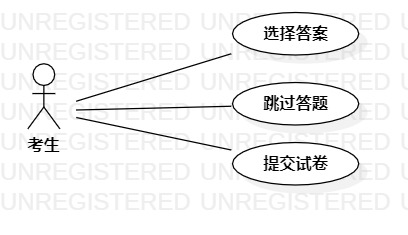
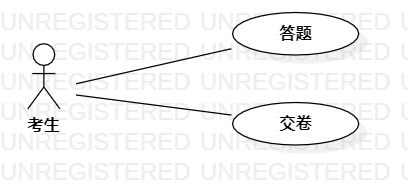
#2 #53 实验二（第七次提交）

diff --git a/students/1714080902319/lab2.md b/students/1714080902319/lab2.md
@@ -26,11 +26,9 @@
 
 4、确定用例（UseCase）
 
-　　－选择答案
+　　－答题
 
-　　－跳过答题
-
-　　－提交试卷
+　　－交卷
 
 ５、建立Actor和UseCase的联系
 
@@ -44,41 +42,33 @@
 
 　　　　　　　　　　　　　　　　图1：轻考驾照软件用例图
 
-## 表1:选择答案用例规约
+## 表1:答题用例规约
 
-| 用例编号 | UC01                                                 | 备注               |
-| -------- | :--------------------------------------------------- | ------------------ |
-| 用例名称 | 选择答案                                             |                    |
-| 前置条件 | 考生已进入答题页面                                   | 可选               |
-| 后置条件 | 系统显示下一道题页面                                 | 可选               |
-| 基本流程 | 1. 考生点击其中一个选项的按钮(A、B、C、D)            | 用例执行成功的步骤 |
-| ~        | 2. 系统检查考生选择情况为选择正确，系统显示正确答案  |                    |
-| ~        | 3. 系统记录考生当前分数                              |                    |
-| ~        | 4. 系统显示下一道题的页面                            |                    |
-| 扩展流程 | 2.1 系统检查考生选择情况为选择错误，系统显示试题解析 | 用例执行失败       |
+| 用例编号 | UC01                                         | 备注               |
+| -------- | :------------------------------------------- | ------------------ |
+| 用例名称 | 答题                                         |                    |
+| 前置条件 | 考生已进入答题页面                           | 可选               |
+| 后置条件 | 系统显示下一道题页面                         | 可选               |
+| 基本流程 | 1. 考生点击其中一个选项的按钮(A、B、C、D)    | 用例执行成功的步骤 |
+| ~        | 2. 考生点击确定按钮                          |                    |
+| ~        | 4. 系统检查考生所选答案不为空，保存考生答案  |                    |
+| ~        | 5. 系统显示下一道题的页面                    |                    |
+| 扩展流程 | 4.1 系统检查考生所选答案为空，则提示“请选择” | 用例执行失败       |
 
-## 表2：跳过答题用例规约
+## 
+
+## 表2:交卷用例规约
 
 | 用例编号 | UC02                                                         | 备注               |
 | -------- | ------------------------------------------------------------ | ------------------ |
-| 用例名称 | 跳过答题                                                     |                    |
-| 前置条件 | 考生已进入答题页面                                           | 可选               |
-| 后置条件 | 系统显示下一道题页面                                         | 可选               |
-| 基本流程 | 1. 考生点击下一题按钮                                        | 用例执行成功的步骤 |
-| ~        | 2. 系统检查跳过的题目不是最后一题，系统提示“记得回来做”      |                    |
-| ~        | 3. 系统显示下一道题的页面                                    |                    |
-| 扩展流程 | 2.1 系统检查跳过的题目是最后一题，系统提示“最后一题无法跳过” | 用例执行失败       |
-
-
-
-## 表3:提交试卷用例规约
-
-| 用例编号 | UC03                                                         | 备注               |
-| -------- | ------------------------------------------------------------ | ------------------ |
-| 用例名称 | 提交试卷                                                     |                    |
+| 用例名称 | 交卷                                                         |                    |
 | 前置条件 | 考生已进入答题页面                                           | 可选               |
 | 后置条件 | 系统进入分数页面                                             | 可选               |
 | 基本流程 | 1. 考生点击提交试卷按钮                                      | 用例执行成功的步骤 |
-| ~        | 2. 系统检查考生已做完所有题目，系统显示分数页面              |                    |
-| 扩展流程 | 2.1 系统检查考生未完所有题目，系统提示“未答完50道题，提交失败” | 用例执行失败       |
+| ~        | 2. 系统统计考生答案数量，保存统计结果                        |                    |
+| ~        | 3. 系统检查统计结果为50，系统提示“提交成功”                  |                    |
+| ~        | 4. 系统计算考生分数                                          |                    |
+| ~        | 5. 系统保存考生总分                                          |                    |
+| ~        | 6. 系统显示分数页面                                          |                    |
+| 扩展流程 | 3.1 系统检查统计结果不为50，系统提示“未答完50道题，提交失败” | 用例执行失败       |
 
